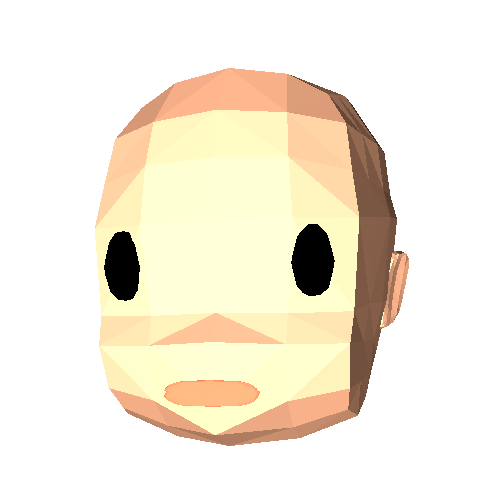
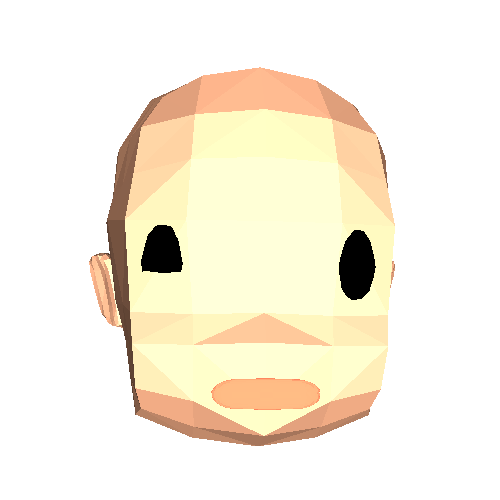
Happy eyes : to finish

diff --git a/3d_emoji_mapping/ObjectReader.py b/3d_emoji_mapping/ObjectReader.py
@@ -17,6 +17,8 @@ class ObjectReader(object):
         
         self.left_eye = []
         self.right_eye = []
+        self.left_eye_happy = []
+        self.right_eye_happy = []
         
         self.mouth = []
         
@@ -36,6 +38,15 @@ class ObjectReader(object):
         self.y_max_right = -10000
         self.x_min_right = 10000
         self.x_max_right = -10000
+
+        self.x_dist_eye_left = 0
+        self.x_dist_eye_right = 0
+        self.y_min_happy_eye_left = 10000
+        self.y_mid_happy_eye_left = 10000
+        self.y_max_happy_eye_left = -10000
+        self.y_min_happy_eye_right = 10000
+        self.y_mid_happy_eye_right = 10000
+        self.y_max_happy_eye_right = -10000
         
         self.z_min_mouth_up = 10000
         self.z_max_mouth_up = -10000
@@ -284,10 +295,19 @@ class ObjectReader(object):
                     
                 #self.left_eye.append(v)
                 self.left_eye.append(vertex)
-        
-        
+                self.left_eye_happy.append(vertex)
+
+        self.y_min_happy_eye_left = self.y_min_left
+        self.y_max_happy_eye_left = self.y_min_left + abs(self.y_max_left - self.y_min_left) * 0.3
+        self.y_mid_happy_eye_left = self.y_min_left + abs(self.y_max_left - self.y_min_left) * 0.15
+
+        self.left_eye_happy = set(self.left_eye_happy)
+
+        self.x_dist_eye_left = abs(self.y_max_left - self.y_min_left)
+
         self.y_min_left += ((self.y_max_left - self.y_min_left)/2)
-        
+
+
         i = 0
         while i < len(self.left_eye):
             if self.vertices[self.left_eye[i]][1] < self.y_min_left:
@@ -312,7 +332,16 @@ class ObjectReader(object):
                 
                 #self.right_eye.append(v)
                 self.right_eye.append(vertex)
-        
+                self.right_eye_happy.append(vertex)
+
+        self.y_min_happy_eye_right = self.y_min_right
+        self.y_max_happy_eye_right = self.y_min_right + abs(self.y_max_right - self.y_min_right) * 0.3
+        self.y_mid_happy_eye_right = self.y_min_right + abs(self.y_max_right - self.y_min_right) * 0.15
+
+        self.right_eye_happy = set(self.right_eye_happy)
+
+        self.x_dist_eye_right = abs(self.y_max_right - self.y_min_right)
+
         self.y_min_right += ((self.y_max_right - self.y_min_right)/2)
         
         i = 0 

diff --git a/3d_emoji_mapping/EmojiModifier.py b/3d_emoji_mapping/EmojiModifier.py
@@ -61,10 +61,13 @@ class EmojiModifier(object):
 
         self.refresh_open_gl()
 
+        #self.set_happy(emoji)
+        """
         if(eyes == "angry"):
             self.set_angry(emoji)
         elif(eyes == "sad"):
             self.set_sad(emoji)
+        """
 
         if filename.find("Beak_Mouth") >= 0:
             self.beak_open_mouth_x(emoji, mouth[0])
@@ -296,8 +299,7 @@ class EmojiModifier(object):
     def set_sad(self, emoji):
         self.set_sad_eye_left(emoji)
         self.set_sad_eye_right(emoji)
-    
-    
+
     def set_sad_eye_left(self, emoji):
         p1 = (emoji.x_min_left, emoji.y_min_left * 1.2)
         p2 = (emoji.x_max_left, emoji.y_max_left * 0.9)
@@ -315,6 +317,24 @@ class EmojiModifier(object):
         for i in range(len(emoji.right_eye)):
             v = emoji.vertices[emoji.right_eye[i]]
             emoji.vertices[emoji.right_eye[i]] = (v[0], self.get_affine_image(a, b, v[0]), v[2])
+
+    def set_happy(self, emoji):
+        self.set_happy_eye_left(emoji)
+        #self.set_happy_eye_right(emoji)
+
+    def set_happy_eye_left(self, emoji):
+        #mid = abs(emoji.y_max_happy_eye_left - emoji.y_mid_happy_eye_left)
+        r = emoji.x_dist_eye_left / 2.0
+        b = emoji.y_mid_happy_eye_left
+        x_mid = emoji.x_min_left + r
+        for vertex in emoji.left_eye_happy:
+            v = emoji.vertices[vertex]
+            x = v[0] - x_mid
+            new_y = (sqrt((r * r) - (x * x))) + b
+            if v[1] <= emoji.y_max_happy_eye_left:
+                if v[1] <= new_y:
+                    #new_y = v[1] + abs(emoji.y_max_happy_eye_left - emoji.y_mid_happy_eye_left) * 2.0
+                    emoji.vertices[vertex] = (v[0], new_y, v[2])
 
     def mouth_extend_mouth_x(self, emoji, mouth_x):
         #move = abs(mouth_x - self.min_mouth_x) * abs(emoji.x_max_mouth - emoji.x_min_mouth) / abs(self.max_mouth_x - self.min_mouth_x)
